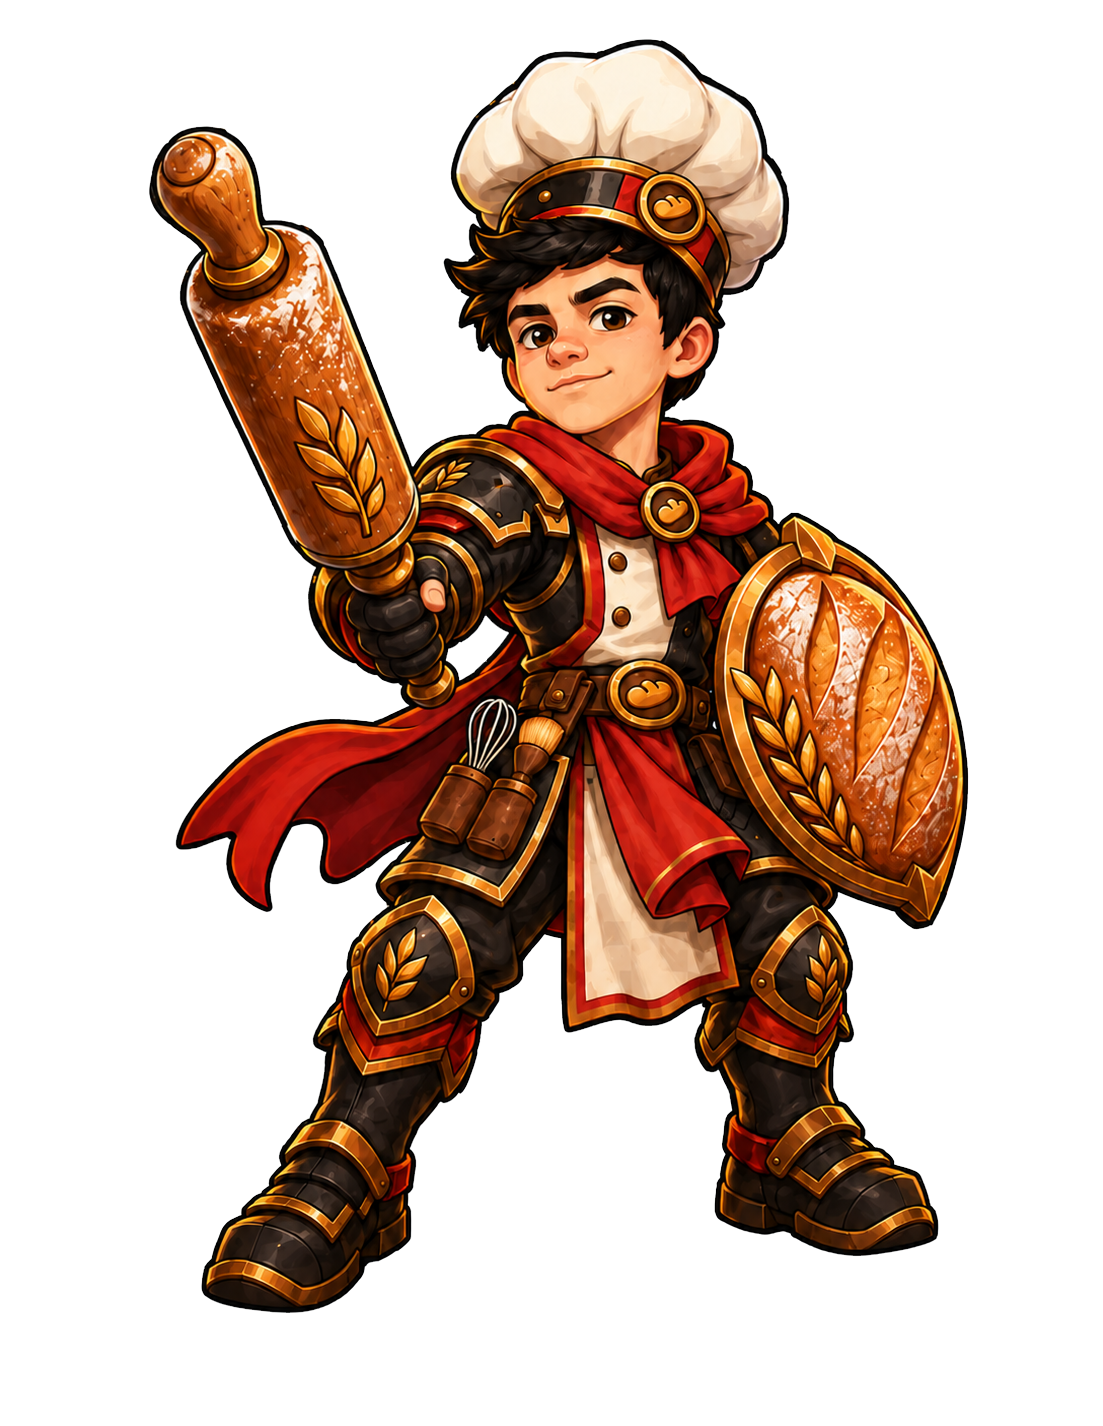
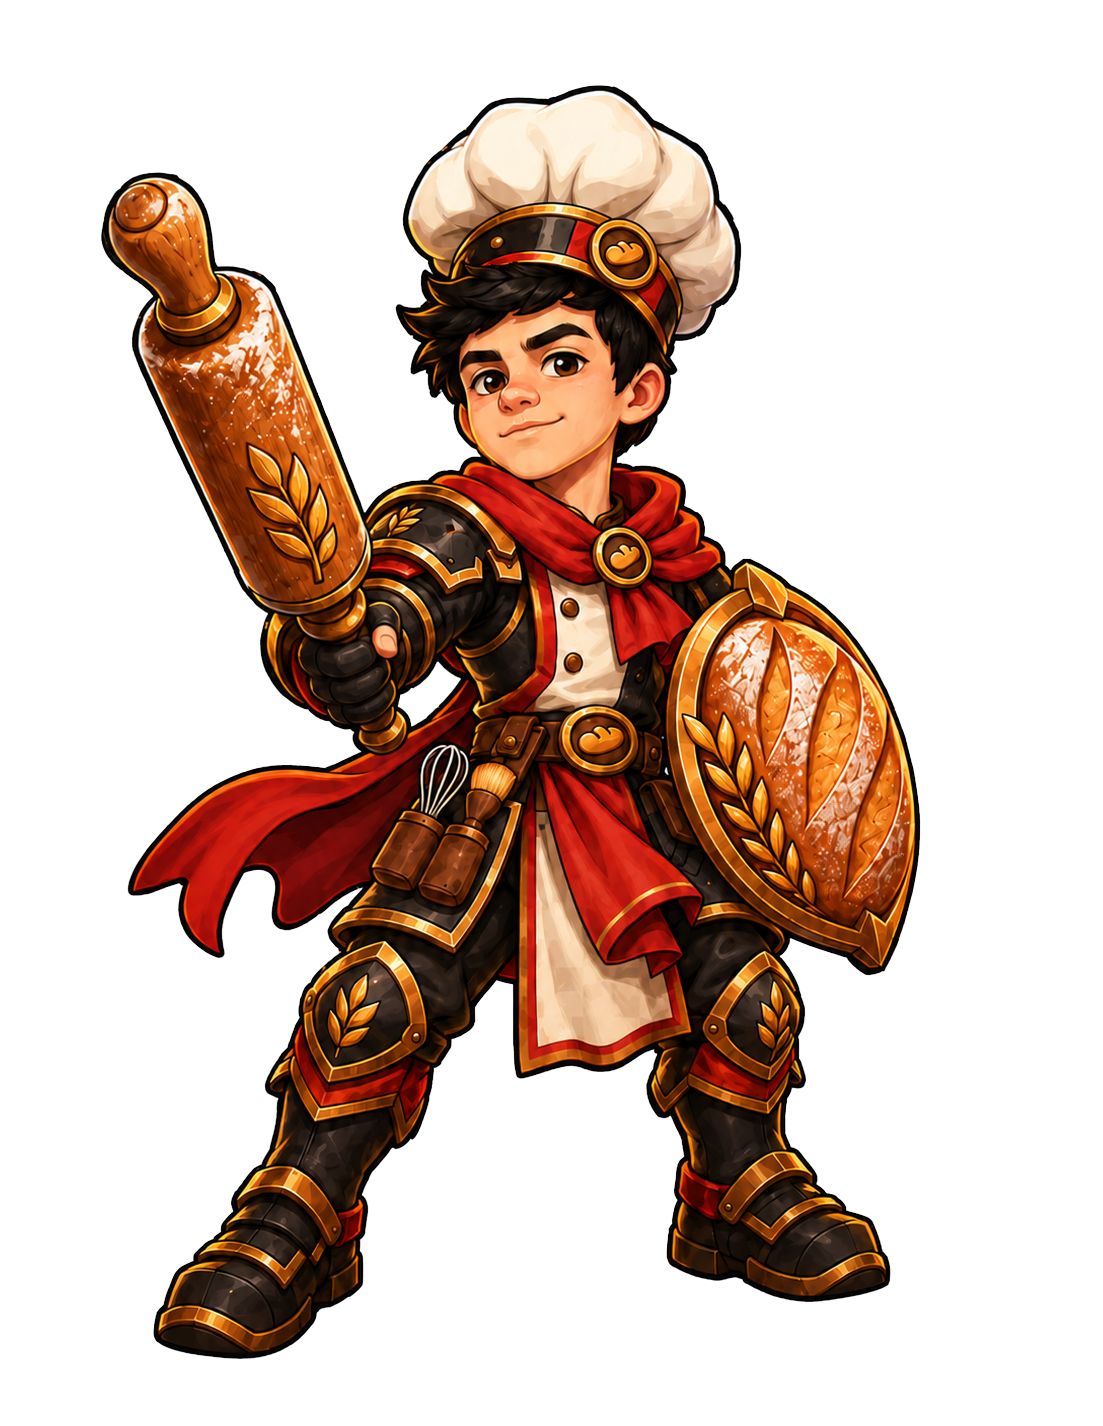
cambios

diff --git a/src/components/auth/LoginForm.tsx b/src/components/auth/LoginForm.tsx
@@ -55,7 +55,7 @@ export function LoginForm({ onSwitchToRegister }: { onSwitchToRegister: () => vo
           value={identifier}
           onChange={(e) => setIdentifier(e.target.value)}
           autoComplete="username"
-          box={{ top: "36.1%", left: "28%", width: "44%", height: "4.2%" }}
+          box={{ top: "36.1%", left: "28%", width: "44%", height: "4.8%" }}
         />
         <ArtInput
           id="login-password"
@@ -64,7 +64,7 @@ export function LoginForm({ onSwitchToRegister }: { onSwitchToRegister: () => vo
           value={password}
           onChange={(e) => setPassword(e.target.value)}
           autoComplete="current-password"
-          box={{ top: "53.6%", left: "28%", width: "44%", height: "4.2%" }}
+          box={{ top: "52.4%", left: "28%", width: "44%", height: "5.4%" }}
         />
 
         {error ? (

diff --git a/src/app/page.tsx b/src/app/page.tsx
@@ -55,7 +55,7 @@ export default function Home() {
 
       <section
         aria-label="Hoy se hornea"
-        className="flex w-full justify-center px-4 pt-6 lg:absolute lg:left-[32%] lg:top-[40%] lg:w-[32%] lg:px-0 lg:pt-0"
+        className="flex w-full justify-center px-4 pt-6 lg:absolute lg:left-[40%] lg:top-[50%] lg:w-[26%] lg:px-0 lg:pt-0"
       >
         <GameRulesSidebar />
       </section>
@@ -67,7 +67,7 @@ export default function Home() {
         <AuthPanel />
       </section>
 
-      <footer className="relative z-[2] flex justify-center px-4 py-6 lg:absolute lg:left-[30%] lg:top-[85%] lg:h-[9%] lg:w-[40%] lg:py-0">
+      <footer className="relative z-[2] flex justify-center px-4 py-6 lg:absolute lg:left-[4%] lg:top-[78%] lg:h-[20%] lg:w-[90%] lg:py-0">
         <BettingNotice />
       </footer>
     </div>

diff --git a/src/components/auth/GameRulesSidebar.tsx b/src/components/auth/GameRulesSidebar.tsx
@@ -2,7 +2,7 @@ import Image from "next/image";
 
 export function GameRulesSidebar() {
   return (
-    <div className="flex flex-col items-center gap-5 lg:block">
+    <div className="flex w-full flex-col items-center gap-5 lg:block">
       {/* El cartel "Hoy se hornea" trae el VS de panes dibujado — se
           mantiene decorativo y se duplica como texto accesible. */}
       <div
